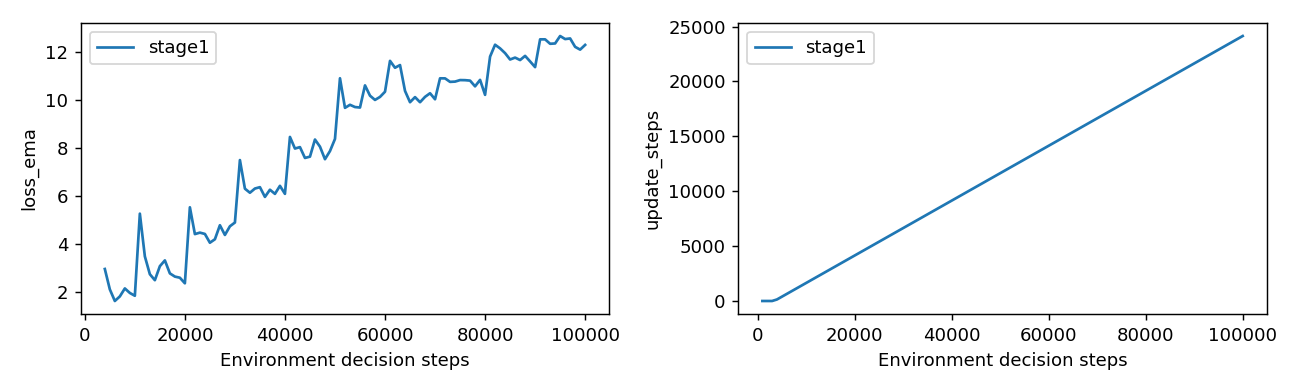
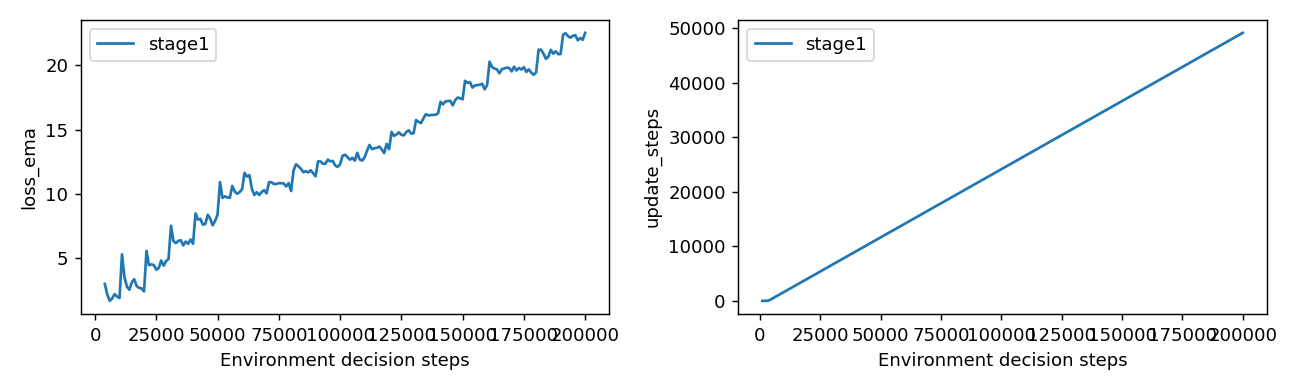
artifact: Z support full curriculum stage1-snapshot-2 status

diff --git a/docs/experiments/z_support_full3stage_20261017/Z_SUPPORT_STAGE1_RESULT_ZH.md b/docs/experiments/z_support_full3stage_20261017/Z_SUPPORT_STAGE1_RESULT_ZH.md
@@ -3,7 +3,7 @@
 状态：**训练中**。未完成任务保留待完成状态，不把预算或运行中状态当作结果。
 
 规模：4 Pursuers / 1 Evaders / 1 Obstacles。预算：2,000,000 environment decision steps。
-已持久化进度：100,000环境决策；24,137次optimizer更新；212个episode。三者独立计数。
+已持久化进度：200,000环境决策；49,137次optimizer更新；304个episode。三者独立计数。
 
 初始化：scratch随机初始化，禁止历史或pilot权重。
 配置：`/home/yjq/rl/CoCap1/iqn-z-guided-support-full3stage-20261017-runtime/stages/stage1/resolved.yaml`；训练日志：`/home/yjq/rl/CoCap1/iqn-z-guided-support-full3stage-20261017-runtime/stages/stage1/training`。

diff --git a/docs/experiments/z_support_full3stage_20261017/Z_SUPPORT_EXECUTION_SUMMARY_ZH.md b/docs/experiments/z_support_full3stage_20261017/Z_SUPPORT_EXECUTION_SUMMARY_ZH.md
@@ -2,13 +2,13 @@
 
 当前状态：running，training。
 
-- stage1：训练中；100,000环境决策，24,137次更新，212局。
+- stage1：训练中；200,000环境决策，49,137次更新，304局。
 - stage2：等待课程交接；0环境决策，0次更新，0局。
 - stage3：等待课程交接；0环境决策，0次更新，0局。
 
 监督器PID：3586027；训练PID：3586100；物理GPU：0。
 
-stage1吞吐/ETA：27.54609196998125 decisions/s；68975.3015806675秒。
+stage1吞吐/ETA：25.91486407371976 decisions/s；69458.20729851723秒。
 
 下一检查点：当前阶段的下一个100k模型快照；本地每1000决策进度刷新，监督器每20秒导出状态。
 
